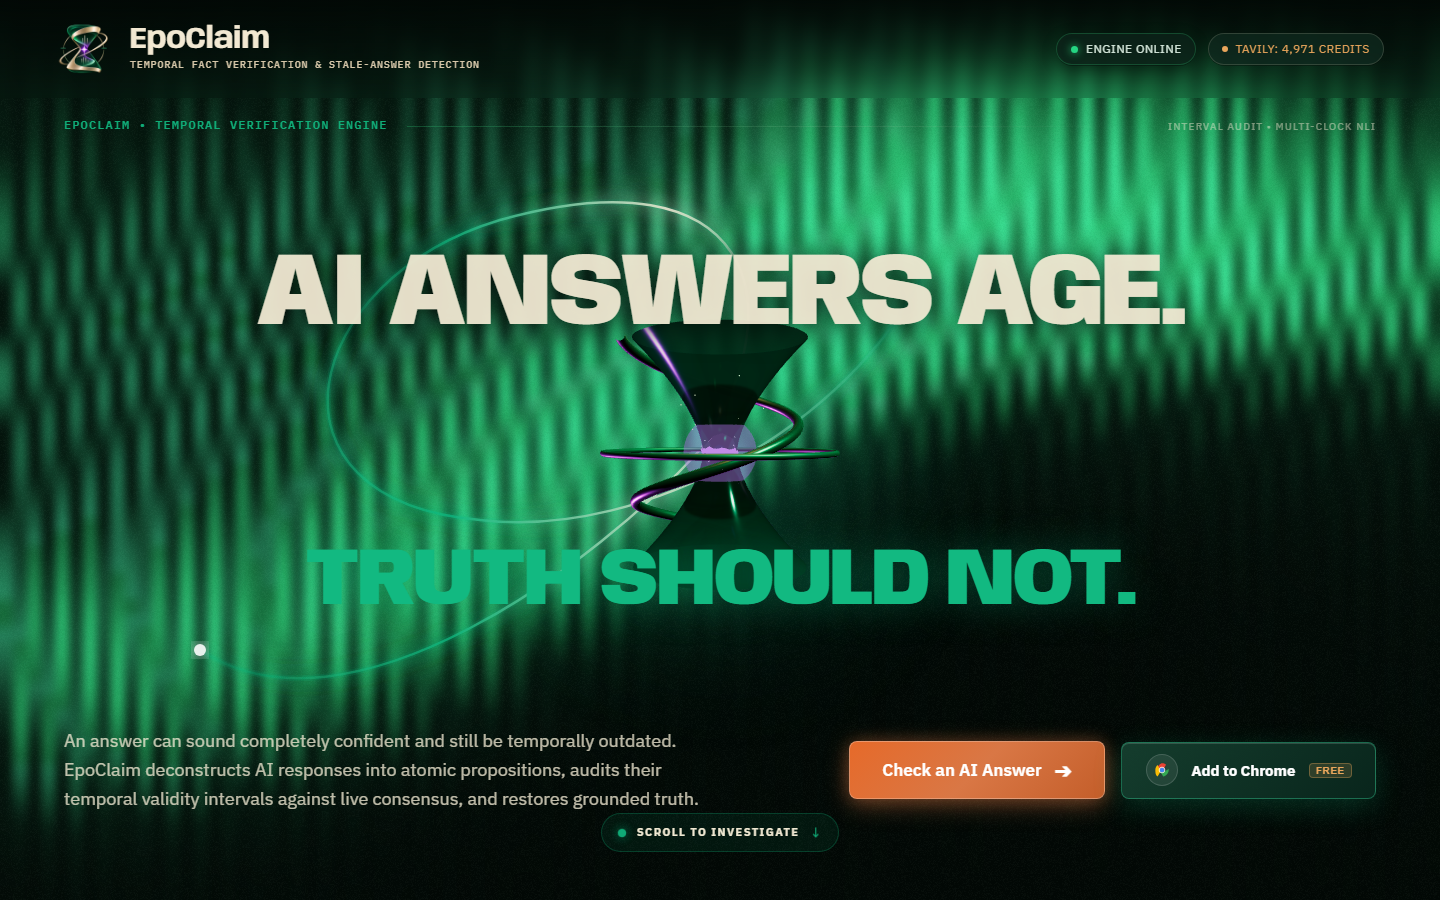
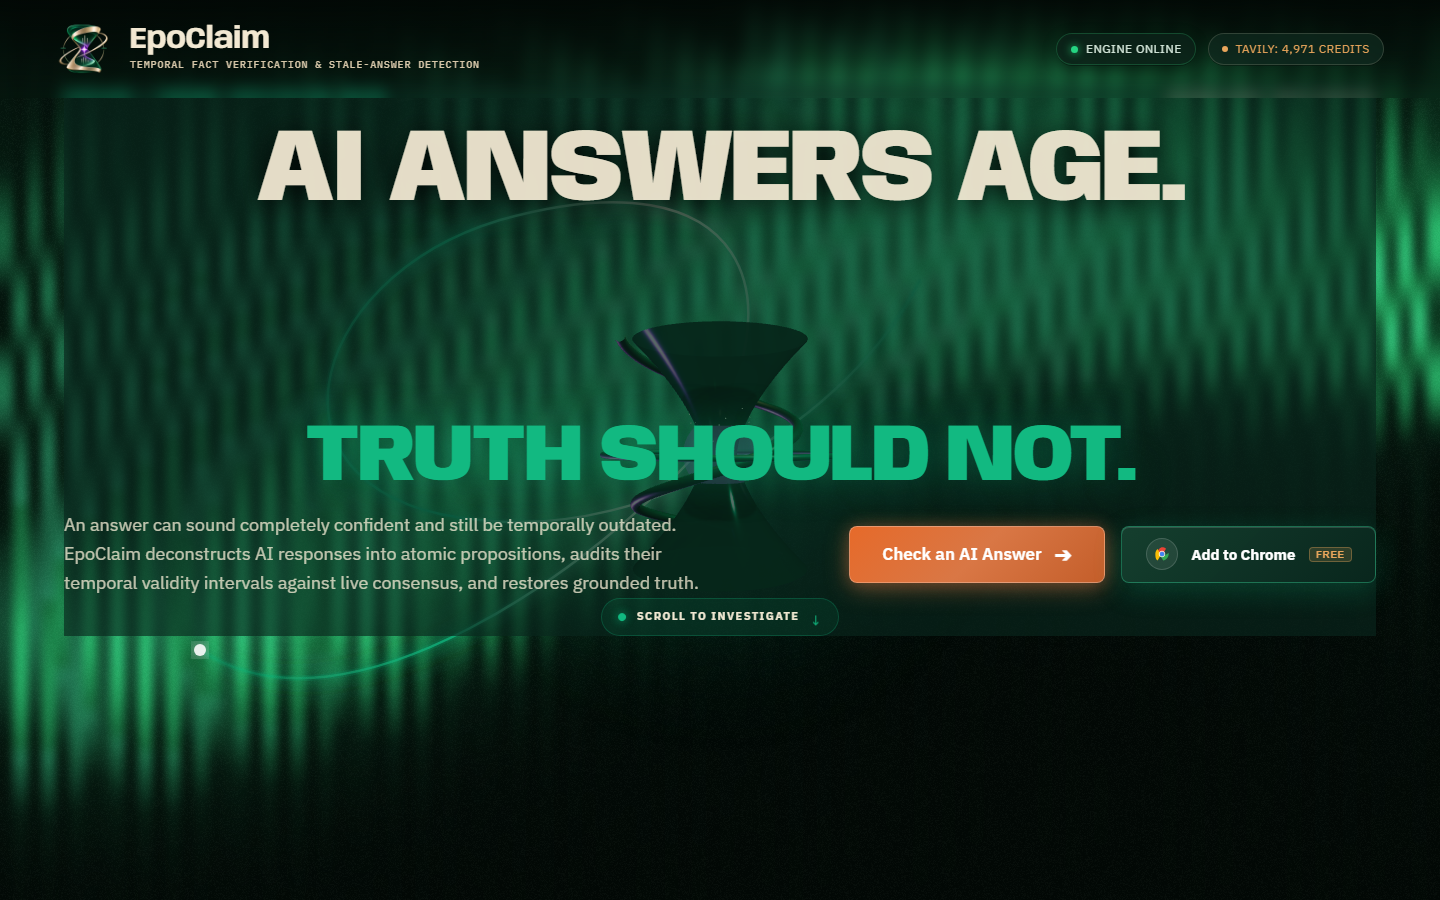
Fix: Extension production URL and manifest host permissions for Render

diff --git a/frontend/src/index.css b/frontend/src/index.css
@@ -11094,19 +11094,25 @@ html, body {
   z-index: 10;
   will-change: transform, opacity;
   transition: opacity 0.2s ease-out, transform 0.25s ease-out;
+  overflow-y: auto;
 }
 
 .stage-content-wrap {
   width: 100%;
   max-width: 1540px;
-  height: 100%;
-  max-height: calc(100vh - 9rem);
+  height: auto;
+  min-height: 60vh;
+  max-height: 90vh;
   display: flex;
   flex-direction: column;
   justify-content: space-between;
   box-sizing: border-box;
   position: relative;
   z-index: 10;
+  background: rgba(9, 39, 29, 0.65);
+  backdrop-filter: blur(12px);
+  padding: 2rem;
+  border-radius: 12px;
 }
 
 /* Eyebrow metadata band */
@@ -11598,6 +11604,11 @@ html, body {
   position: relative;
   z-index: 12;
   box-sizing: border-box;
+}
+
+.stage-3-engine {
+  align-items: flex-start;
+  padding-top: 4rem;
 }
 
 /* Continuous Sequence Conduit Bar running across all 4 stages */

diff --git a/frontend/verify_landing.ts b/frontend/verify_landing.ts
@@ -1,0 +1,26 @@
+
+import { chromium } from 'playwright';
+
+(async () => {
+  const browser = await chromium.launch();
+  const context = await browser.newContext();
+  const page = await context.newPage();
+
+  await page.goto('http://localhost:5173');
+  
+  // Wait for the aurora and animations to settle
+  await page.waitForTimeout(2000);
+
+  const viewports = [
+    { width: 1920, height: 1080 },
+    { width: 390, height: 844 },
+  ];
+
+  for (const vp of viewports) {
+    await page.setViewportSize(vp);
+    console.log(`Taking screenshot of landing at ${vp.width}x${vp.height}`);
+    await page.screenshot({ path: `landing-screenshot-${vp.width}.png` });
+  }
+
+  await browser.close();
+})();

diff --git a/extension/src/shared/types.ts b/extension/src/shared/types.ts
@@ -234,7 +234,7 @@ export interface ExtensionSettings {
 }
 
 export const DEV_BACKEND_URL = "http://localhost:8000";
-export const PROD_BACKEND_URL = "https://epoclaim.vercel.app";
+export const PROD_BACKEND_URL = "https://epoclaim.onrender.com";
 export const DEFAULT_BACKEND_URL = PROD_BACKEND_URL;
 
 export const DEFAULT_SETTINGS: ExtensionSettings = {

diff --git a/backend/app/main.py b/backend/app/main.py
@@ -9,7 +9,7 @@ from fastapi.responses import FileResponse, JSONResponse
 from fastapi.staticfiles import StaticFiles
 
 from app.core.config import settings
-from app.api.v1.endpoints import router as api_v1_router, v1_alias_router
+from app.api.v1.endpoints import router as api_v1_router
 
 logging.basicConfig(level=logging.INFO, format="%(asctime)s [%(levelname)s] %(name)s: %(message)s")
 logger = logging.getLogger("epoclaim")
@@ -51,10 +51,8 @@ async def limit_request_size_middleware(request: Request, call_next):
     return response
 
 
-# Include API routers (both /api/v1 and /v1 prefix to ensure complete Vercel serverless compatibility)
-app.include_router(api_v1_router)
-app.include_router(v1_alias_router)
-
+# Include API routers
+app.include_router(api_v1_router, prefix="/api/v1")
 
 @app.get("/health", tags=["Root"], status_code=status.HTTP_200_OK)
 @app.get("/api/health", tags=["Root"], status_code=status.HTTP_200_OK)
@@ -102,16 +100,8 @@ async def serve_frontend(full_path: str, request: Request):
     - Serves exact matching static assets located in frontend/dist (e.g. favicon.ico, cached_benchmark.json).
     - Falls back to index.html for client-side HTML5 history navigation.
     """
-    # Strict API route boundary protection
-    if (
-        full_path.startswith("api/")
-        or full_path == "api"
-        or full_path.startswith("v1/")
-        or full_path == "v1"
-        or full_path.startswith("health")
-        or full_path in ("docs", "redoc", "openapi.json")
-    ):
-        raise HTTPException(status_code=status.HTTP_404_NOT_FOUND, detail="API route not found")
+    # Strict API route boundary protection - NOT blocking here ensures FastAPI router takes priority
+    # If the router doesn't match, we will return 404 (for API routes) or index.html (for SPA routes) below.
 
     # If the root or JSON info is explicitly requested via API headers when dist is not built:
     index_file = _frontend_dist / "index.html"

diff --git a/backend/app/api/v1/endpoints.py b/backend/app/api/v1/endpoints.py
@@ -28,6 +28,7 @@ async def analyze_response(
     _auth: Optional[str] = Depends(verify_developer_api_key),
 ) -> FinalReport:
     """Analyze an AI-generated answer for factual correctness and temporal freshness."""
+    logger.info(f"Analyze request received: {request.response_text[:50]}")
     try:
         report = await pipeline.run(request)
         return report
@@ -161,9 +162,5 @@ async def evaluate_scenarios(
 
 
 # Primary /api/v1 router (standard public API prefix)
-router = APIRouter(prefix="/api/v1", tags=["Analysis & Verification"])
+router = APIRouter(tags=["Analysis & Verification"])
 router.include_router(v1_core_router)
-
-# Direct /v1 alias router (for proxy or Vercel serverless rewrites)
-v1_alias_router = APIRouter(prefix="/v1", tags=["Analysis & Verification"])
-v1_alias_router.include_router(v1_core_router)
